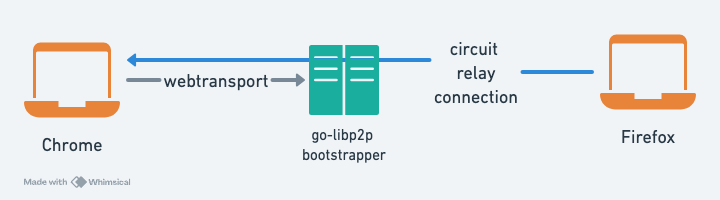
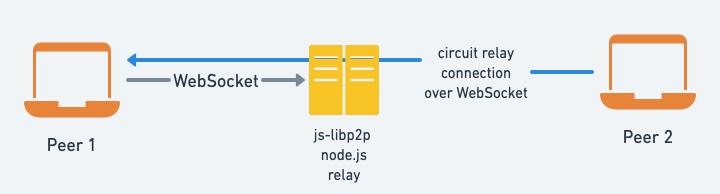
address feedback on diagrams

diff --git a/content/guides/getting-started/browser-to-browser.md b/content/guides/getting-started/browser-to-browser.md
@@ -15,7 +15,7 @@ Browser-to-browser connectivity is the foundation for distributed apps. When com
 
 By the end of the guide, you should be familiar with the requisite libp2p and WebRTC protocols and concepts, and how to use them to establish libp2p connections between browsers.
 
-Since js-libp2p runs both in the browser and Node.js with WebRTC being supported in both, what's covered in this guide applies to using the WebRTC transport to dial browsers from Node.js.
+Since js-libp2p runs both in the browser and Node.js with WebRTC being supported in both, what's covered in this guide also applies to using the WebRTC transport to dial browsers *from* Node.js.
 
 WebRTC is a set of open standards and Web APIs that enable Web apps to establish direct connectivity for audio/video conferencing and exchanging arbitrary data. Today, WebRTC is [adopted by most browsers](https://caniuse.com/?search=webrtc) and powers a lot of popular web conferencing apps.
 
@@ -33,7 +33,7 @@ Direct connections are especially useful for video and audio calling, because th
 
 However, the reality of public internet networking given routers, NAT layers, VPNs, and firewalls is such p2p connectivity is riddled with challenges. These challenges are commonly overcome by running additional infrastructure such as signaling, [STUN](https://developer.mozilla.org/en-US/docs/Web/API/WebRTC_API/Protocols), and [TURN](https://developer.mozilla.org/en-US/docs/Web/API/WebRTC_API/Protocols) servers, some of which are standardized as part of WebRTC.
 
-While WebRTC is a solution to peer-to-peer connectivity in the context of browsers. Libp2p encompasses a wider scope with building blocks for building peer-to-peer apps that support WebRTC in addition to [other transports, such as QUIC, TCP, WebSockets, WebTransport](https://connectivity.libp2p.io/), and essentially form a mesh topology:
+While WebRTC is a solution to peer-to-peer connectivity in the context of browsers. Libp2p encompasses a wider scope with building blocks for building peer-to-peer apps that support WebRTC in addition to [other transports, such as QUIC, TCP, WebSocket, WebTransport](https://connectivity.libp2p.io/), and essentially form a mesh topology:
 
 ![mesh topology](/webrtc-guide/mesh.png)
 
@@ -53,28 +53,31 @@ Specifically, these include:
 - **signaling**: helps the browsers exchange [SDP (Session Description Protocol)](https://developer.mozilla.org/en-US/docs/Glossary/SDP) messages: the metadata necessary to establish a connection. Most importantly, signaling is not part of the WebRTC specification. This means that applications are free to implement signaling as they see fit. In this guide, you will use Libp2p's [protocol for signaling](https://github.com/libp2p/specs/blob/master/webrtc/webrtc.md#signaling-protocol) over Circuit Relay v2 connections.
 - **Libp2p relay**: The libp2p peer will serve two roles:
   - **Circuit Relay V2**: A publicly reachable libp2p peer that can serve as a relay between browser nodes that have yet to establish a direct connection between each other. Unlike TURN servers, which are WebRTC-specific and can be costly to run, Circuit Relay V2 is a libp2p protocol that is resource-constrained by design. It's also decentralized and trustless, in the sense that any publicly reachable libp2p peer supporting the protocol can help browsers libp2p nodes as a (time and bandwidth-constrained) relay.
-  - **GossipSub Peer Discovery**: For browser peers to discover each other, they will need some mechanism to announce their multiaddresses to other browsers. GossipSub will help by relaying those peer discovery messages between browsers which kick off the direct connection establishment.
+  - **PubSub Peer Discovery**: For browser peers to discover each other, they will need some mechanism to announce their multiaddresses to other browsers. GossipSub is a PubSub implementation that will help by relaying those peer discovery messages between browsers which kick off the direct connection establishment. Note that this approach to peer discovery is not very scalable and probably not fit for production use cases.
 
 In summary, as part of this guide, you will need to run a publicly reachable long-running libp2p peer that will serve as both a circuit relay and a GossipSub message relay. This guide will refer to the libp2p peer as the **bootstrapper** or **relay** peer depending on the context.
 
 ## Connection flow diagram
 
-The following diagram visualizes the connection flow between two browsers using js-libp2p and WebRTC:
+The following diagrams visualize the connection flow between two browsers using js-libp2p and WebRTC.
 
-![WebRTC connection flow diagram](/webrtc-guide/webrtc-diagram.svg)
+The first part illustrates the peer discovery and establishment of a relayed connection between the two browsers:
+
+![WebRTC connection flow diagram](/webrtc-guide/sequence-part-1.png)
+
+The second part illustrates the SDP handshake via the Circuit Relay:
 
 The connection flow can seem complex, but thankfully, libp2p abstracts some of that complexity, and whatever isn't will be explained in this guide.
 
 Either way, there are several noteworthy things about the connection flow:
 
 1. There's no prescribed mechanism in libp2p for how the two browsers discover each other's multiaddress. This guide will use a [dedicated GossipSub channel for the application where you publish your own multiaddrs (periodically) similar to mdns](https://github.com/libp2p/js-libp2p-pubsub-peer-discovery/), other approaches include the [Rendezvous Protocol](https://github.com/libp2p/specs/blob/master/rendezvous/README.md) and the [in-progress ambient peer discovery spec](https://github.com/libp2p/specs/pull/590).
-1. Since this guide uses a GossipSub channel for peer discovery, the bootstrapper/relay node will listen to the discovery topic too, so that it can relay messages between browsers who've yet to establish a direct connection.
+2. Since this guide uses a GossipSub channel for peer discovery, the bootstrapper/relay node will listen to the discovery topic too, so that it can relay messages between browsers who've yet to establish a direct connection.
 
 ## Pre-requisites
 
-- [Go](https://go.dev/doc/install) compiler to compile and run the bootstrapper. Ensure your Go version is at least 1.20.
-- [Node.js](https://nodejs.org/en) installed to build the frontend
-- Chrome or Firefox, for WebTransport connectivity to the bootstrapper ([Safari does not support WebTransport](https://caniuse.com/webtransport))
+- [Node.js](https://nodejs.org/en) installed to build the frontend and to run the relay
+- Chrome or Firefox, for WebTransport connectivity to the relay ([Safari does not support WebTransport](https://caniuse.com/webtransport))
 
 This guide assumes a basic understanding of libp2p concepts such as:
 
@@ -83,7 +86,7 @@ This guide assumes a basic understanding of libp2p concepts such as:
 - [Libp2p transports]({{< relref "/concepts/transports/overview" >}})
 - [GossipSub]({{< relref "/concepts/pubsub/overview" >}})
 
-Besides that, most of this guide will focus on js-libp2p, i.e. JavaScript. Go knowledge isn't strictly necessary, though it's useful for understanding the bootstrapper code.
+Besides that, most of this guide will focus on js-libp2p, i.e. JavaScript.
 
 ## Step 1: Clone the repository and install dependencies
 
@@ -483,13 +486,13 @@ If you want to experiment with this example over public networks, the bootstrapp
 
 Another challenge you may face is that the WebTransport multiaddr that is hardcoded into the js-libp2p configuration is ephemeral and valid for around 28 days (2 certificate hashes valid for 14 days each). One way to address this is using the DHT to resolve the Peer ID (which is stable and would be hard coded in the frontend) to its latest multiaddrs as done by the [universal connectivity app](https://github.com/libp2p/universal-connectivity).
 
-### Node.js bootstrapper?
+### Differences between js-libp2p in Node.js and browser
 
 Connectivity between the browser and bootstrapper is constrained by supported transports of the browser and the specific libp2p implementation.
 
 At the time of writing, **js-libp2p in browsers** supports:
 
-- WebSockets: this works well and is broadly adopted by libp2p implementations, but requires the bootstrapper to have CA-signed TLS certificate and a domain name to work in [Secure Contexts](https://developer.mozilla.org/en-US/docs/Web/Security/Secure_Contexts). Another disadvantage of Secure WebSockets is that it results in double encryption (TLS and Noise) with libp2p.
+- WebSocket: this works well and is broadly adopted by libp2p implementations, but requires the bootstrapper to have CA-signed TLS certificate and a domain name to work in [Secure Contexts](https://developer.mozilla.org/en-US/docs/Web/Security/Secure_Contexts). Another disadvantage of Secure WebSocket is that it results in double encryption (TLS and Noise) with libp2p.
 - WebTransport: Supported by [Chrome, Firefox, Opera, and Edge](https://caniuse.com/webtransport), but not Safari.
 - WebRTC: Supported by most browsers
 - [WebRTC-direct](https://github.com/libp2p/js-libp2p/tree/main/packages/transport-webrtc#webrtc-vs-webrtc-direct): Supported by all browsers that support WebRTC.
@@ -497,7 +500,7 @@ At the time of writing, **js-libp2p in browsers** supports:
 While **js-libp2p in Node.js** supports:
 
 1. WebRTC: this one is rather confusing because [unlike](https://github.com/libp2p/js-libp2p/tree/main/packages/transport-webrtc#webrtc-vs-webrtc-direct) [WebRTC direct](https://github.com/libp2p/specs/blob/master/webrtc/webrtc-direct.md), it requires an additional circuit relay peer to forward SDP messages between the browser and the Node.js bootstrapper, making it infeasible for the Node.js peer to be the bootstrapper. WebRTC-direct solves this problem, however, at the time of writing it isn't supported by js-libp2p (See [tracking issue](https://github.com/libp2p/js-libp2p/issues/2581)).
-2. WebSockets: as mentioned above, requires a CA-signed TLS certificate and a domain.
+2. WebSocket: as mentioned above, requires a CA-signed TLS certificate and a domain.
 3. TCP: not available in browsers.
 
 Therefore, until WebRTC-Direct or WebTransport support is added to js-libp2p in Node.js, it's much easier to use go-libp2p.
